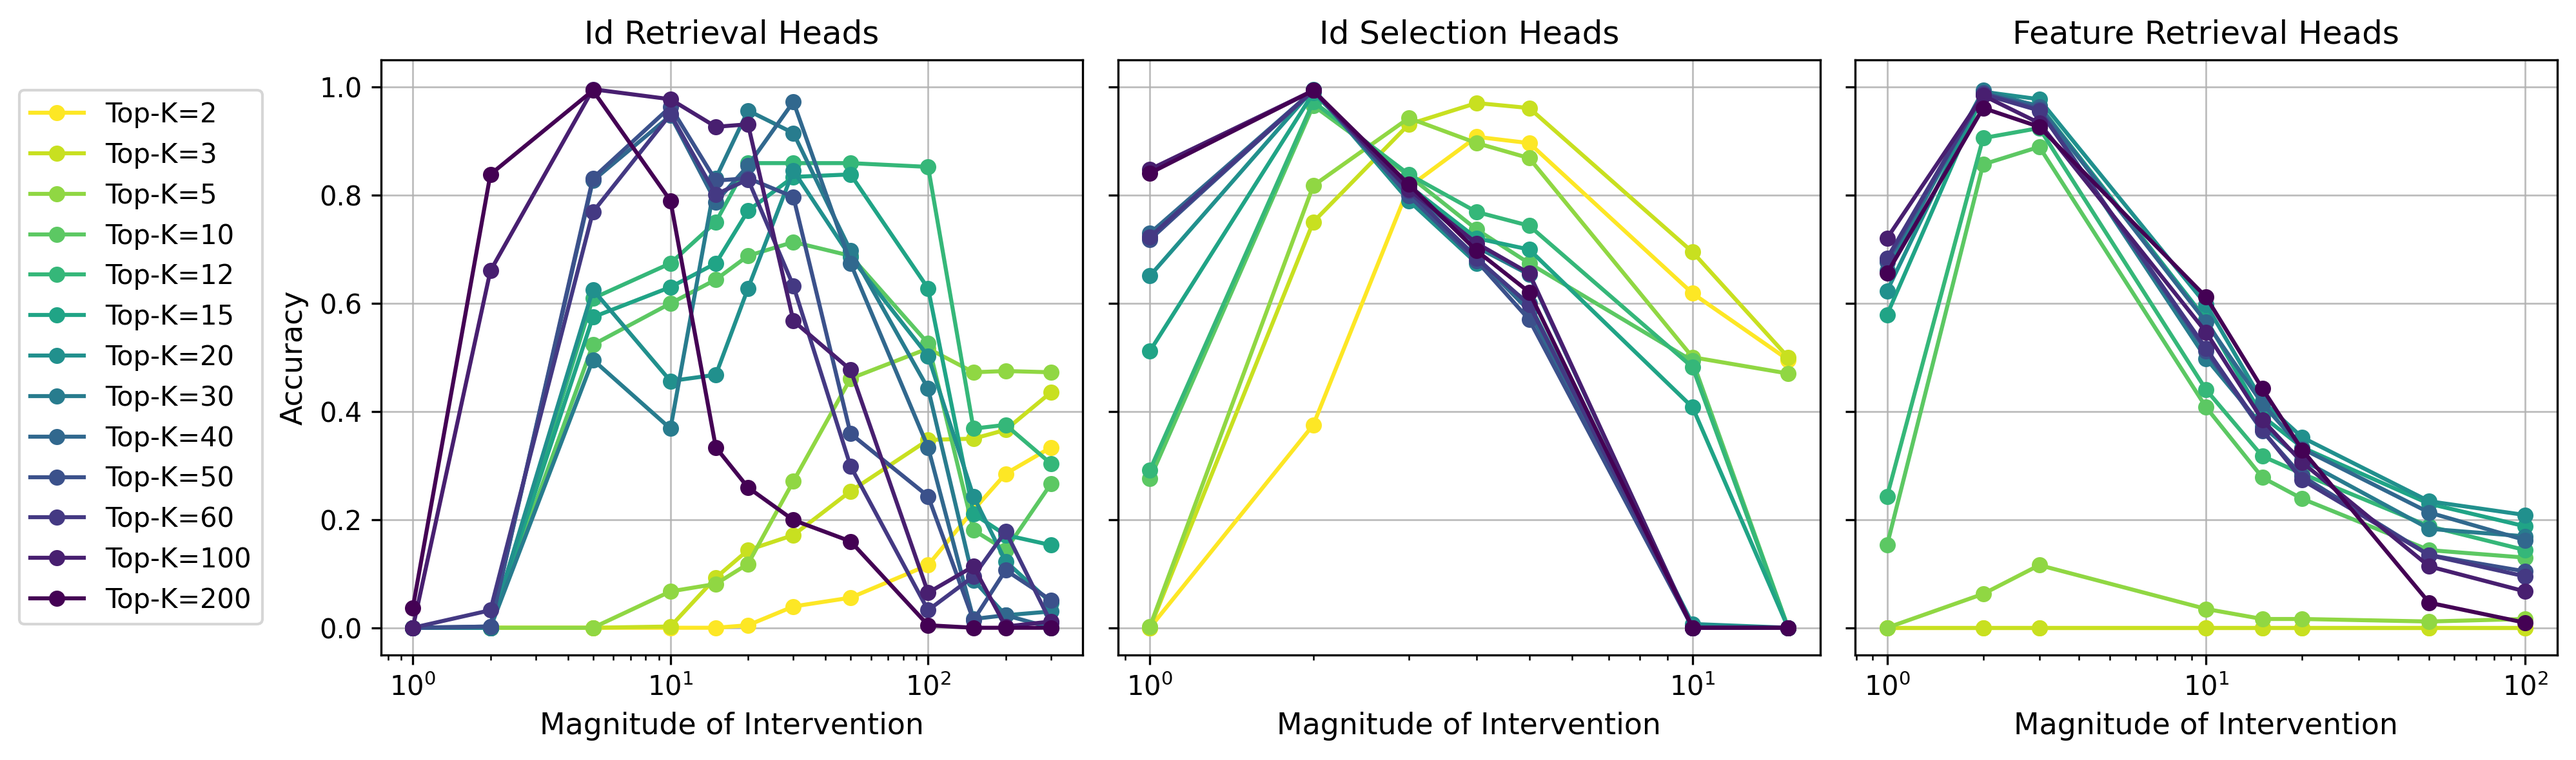
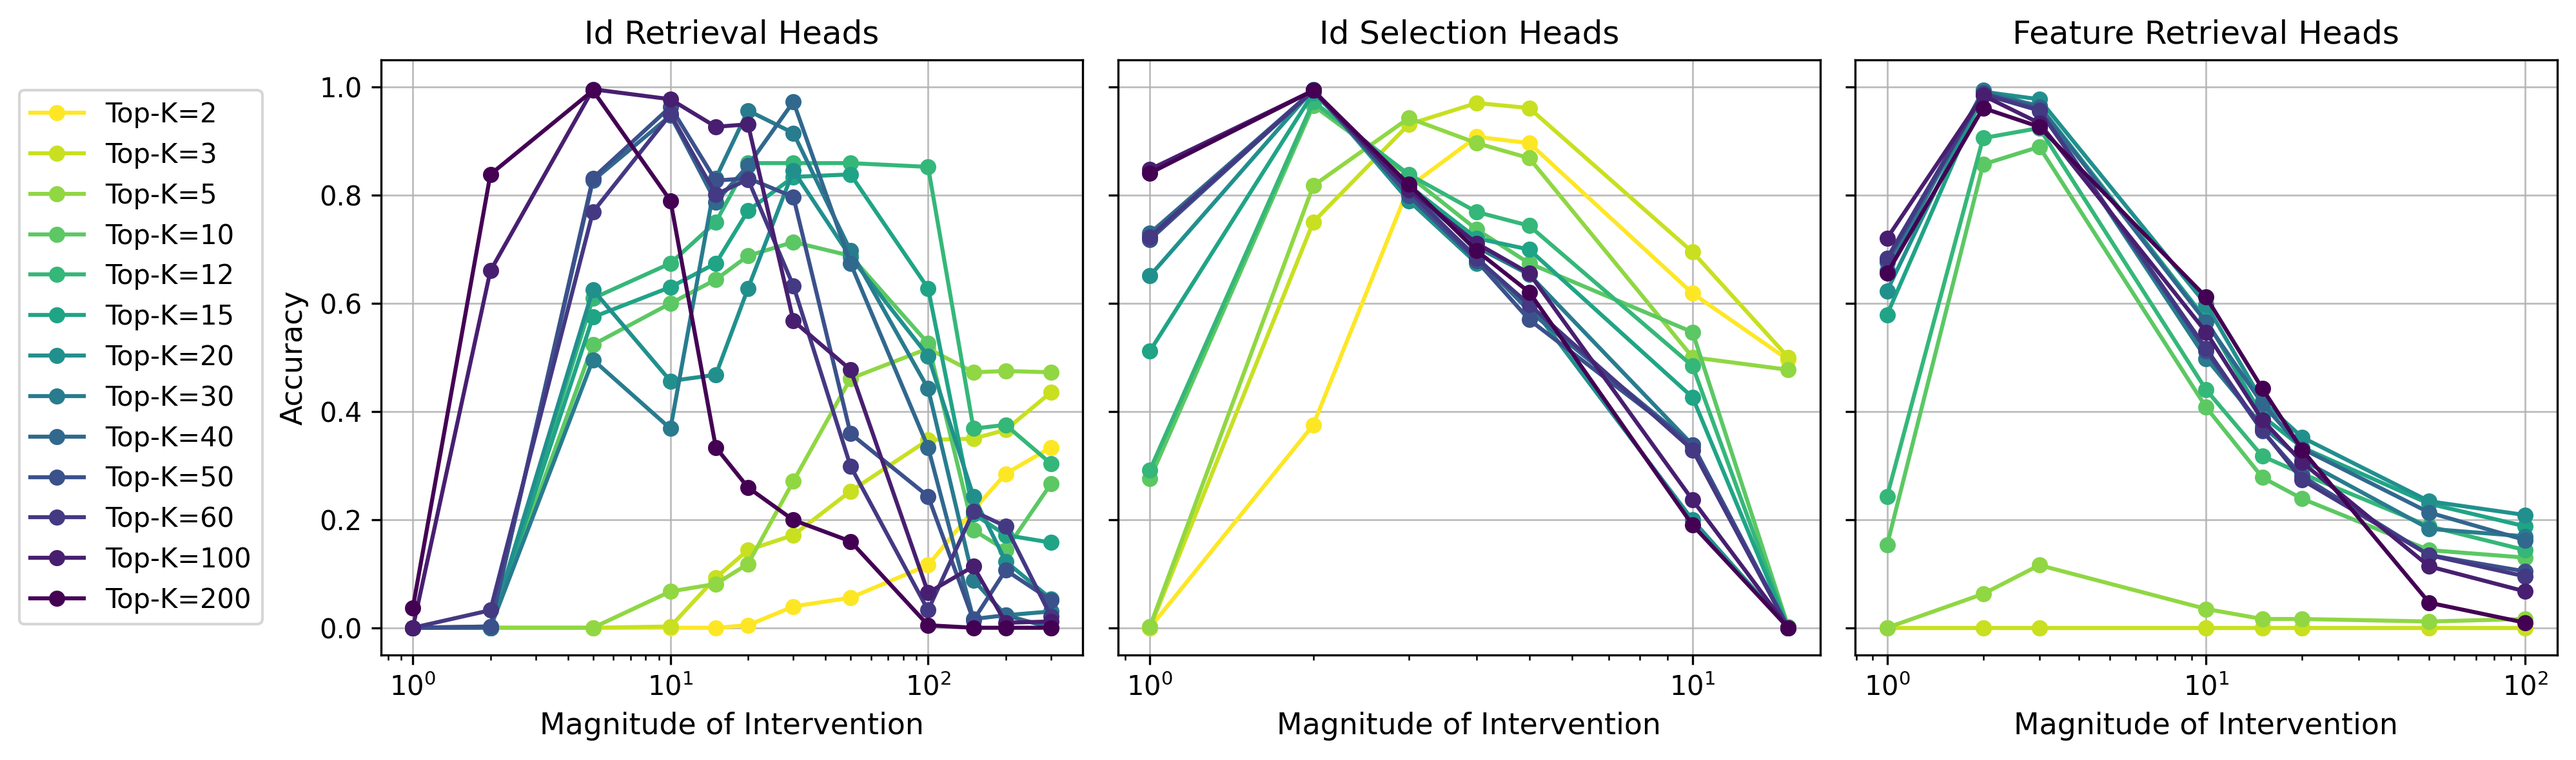
update

Changed region(s): [[0.5897, 0.3356, 0.7139, 0.8542], [0.3725, 0.6712, 0.4035, 0.8237]]

diff --git a/src/plots/cma_3.py b/src/plots/cma_3.py
@@ -29,7 +29,7 @@ def plot_cma_sweeping_results(model_results, save_path=None):
         if alpha not in stage_data[k]:
             stage_data[k][alpha] = {"correct": 0, "total": 0}
             
-        correct = sum(1 for gt, pred in pairs if gt == pred)
+        correct = sum(1 for gt, pred in pairs if gt == pred.lower())
         
         stage_data[k][alpha]["correct"] += correct
         stage_data[k][alpha]["total"] += len(pairs)
@@ -161,6 +161,7 @@ def cma_binding_embeddings(model, processor, num_heads, top_k_heads, stage, est_
     image_list = []
     left_token_pos_list = [] if stage == 1 else None
     right_token_pos_list = [] if stage == 1 else None
+    # Qwen 2.5 VL 32B model always starts by In...
     system_format = "COLOR ANIMAL, replacing COLOR and ANIMAL with the missing color and animal in the image. Do not repeat the prompt words, just append with the requested format"
     for image_data in est_dataset:
         image_list.append(image_data["image"])
@@ -216,6 +217,7 @@ def get_patching_results(model, processor, num_layers, num_heads, top_k_heads, l
         print(f"patching_acc (alpha={alpha}, position={pos}): {matchings}/{len(patching_results)}, patching_results: {patching_results}")
         # print(f"patching_acc (alpha={alpha}, position={pos}): {matchings}/{len(patching_results)}")
 
+    # Qwen 2.5 VL 32B model always starts by In...
     system_format = "COLOR ANIMAL, replacing COLOR and ANIMAL with the missing color and animal in the image. Do not repeat the prompt words, just append with the requested format"
     left_patching_results = {}
     right_patching_results = {}
@@ -284,18 +286,18 @@ def get_patching_results(model, processor, num_layers, num_heads, top_k_heads, l
 
 def main():
     model_id_list = [
-        # ("llava-hf/llava-1.5-13b-hf", 42)                  # figure 42
+        ("llava-hf/llava-1.5-13b-hf", 42)                  # figure 42
         # ("Qwen/Qwen2.5-VL-3B-Instruct", 37),               # figure 37
         # ("Qwen/Qwen2.5-VL-7B-Instruct", 38),               # figure 38
-        ("Qwen/Qwen2.5-VL-32B-Instruct", 39)              # figure 39
+        # ("Qwen/Qwen2.5-VL-32B-Instruct", 39)              # figure 39
         # ("llava-hf/llava-1.5-7b-hf", 41),                  # figure 41
         # ("Qwen/Qwen2-VL-7B-Instruct", 40),                 # figure 40
         # ("llava-hf/llava-onevision-qwen2-7b-ov-hf", 43)    # figure 43
     ]
-    k_list = [2,5,10,20,50,100]
+    k_list = [2,5,10,20,50,200]
     alpha_lists = [
-        [5,10,20,50,100,300],
-        [1,2,4,10,15],
+        [1,2,5,10,30,100,200],
+        [1,3,5,10,30,100],
         [1,3,10,20,50,100]
     ]
 
@@ -315,7 +317,7 @@ def main():
             print(f"Found {filename}! Loading sweeping results for hyperparameters...")
             with open(filename, 'r') as f:
                 patching_results[model_id] = json.load(f)
-            # plot_cma_sweeping_results(patching_results[model_id], imgname)
+            plot_cma_sweeping_results(patching_results[model_id], imgname)
             continue
 
         config = load_config()

diff --git a/src/plots/cma_tbl_1.py b/src/plots/cma_tbl_1.py
@@ -217,10 +217,10 @@ def cma_save_table(accs, save_path):
 
 def main():
     model_id_list = [
-        ("llava-hf/llava-1.5-7b-hf", "LLaVA 1.5 7B"),
-        ("llava-hf/llava-1.5-13b-hf", "LLaVA 1.5 13B"),
-        ("Qwen/Qwen2.5-VL-3B-Instruct", "Qwen 2.5-VL 3B")
-        # ("Qwen/Qwen2.5-VL-7B-Instruct", "Qwen 2.5-VL 7B"),
+        # ("llava-hf/llava-1.5-7b-hf", "LLaVA 1.5 7B"),
+        # ("llava-hf/llava-1.5-13b-hf", "LLaVA 1.5 13B"),
+        # ("Qwen/Qwen2.5-VL-3B-Instruct", "Qwen 2.5-VL 3B")
+        ("Qwen/Qwen2.5-VL-7B-Instruct", "Qwen 2.5-VL 7B")
         # ("Qwen/Qwen2-VL-7B-Instruct", "Qwen 2-VL 7B")
     ]
     num_trials = 50
